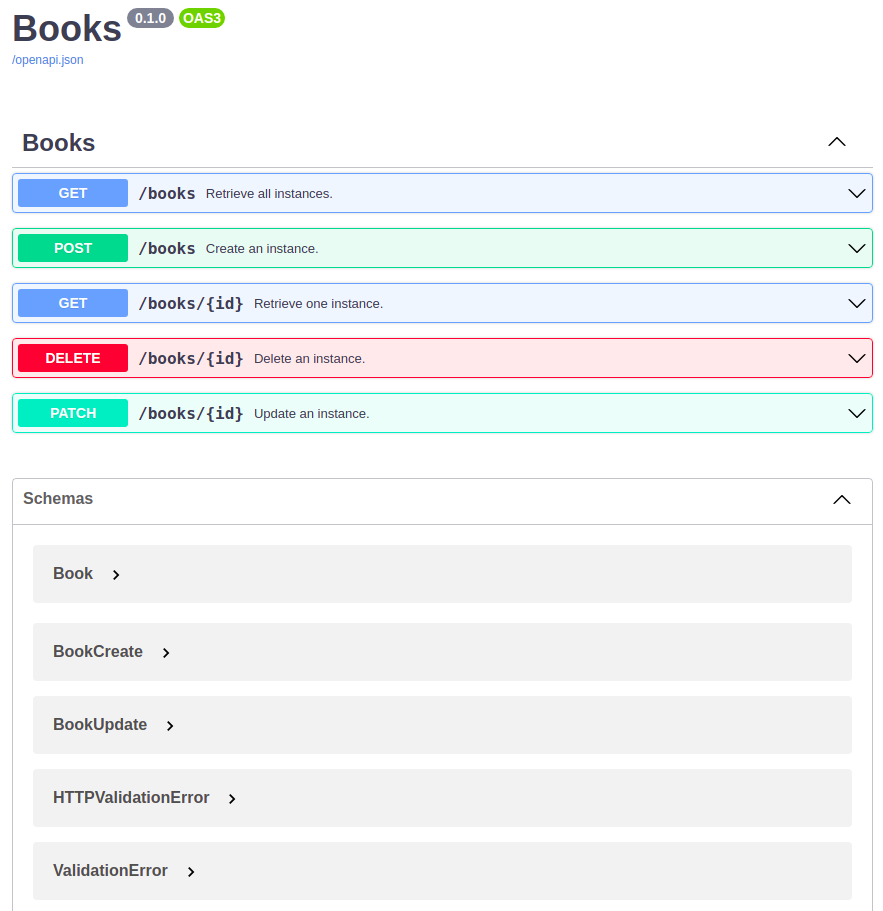
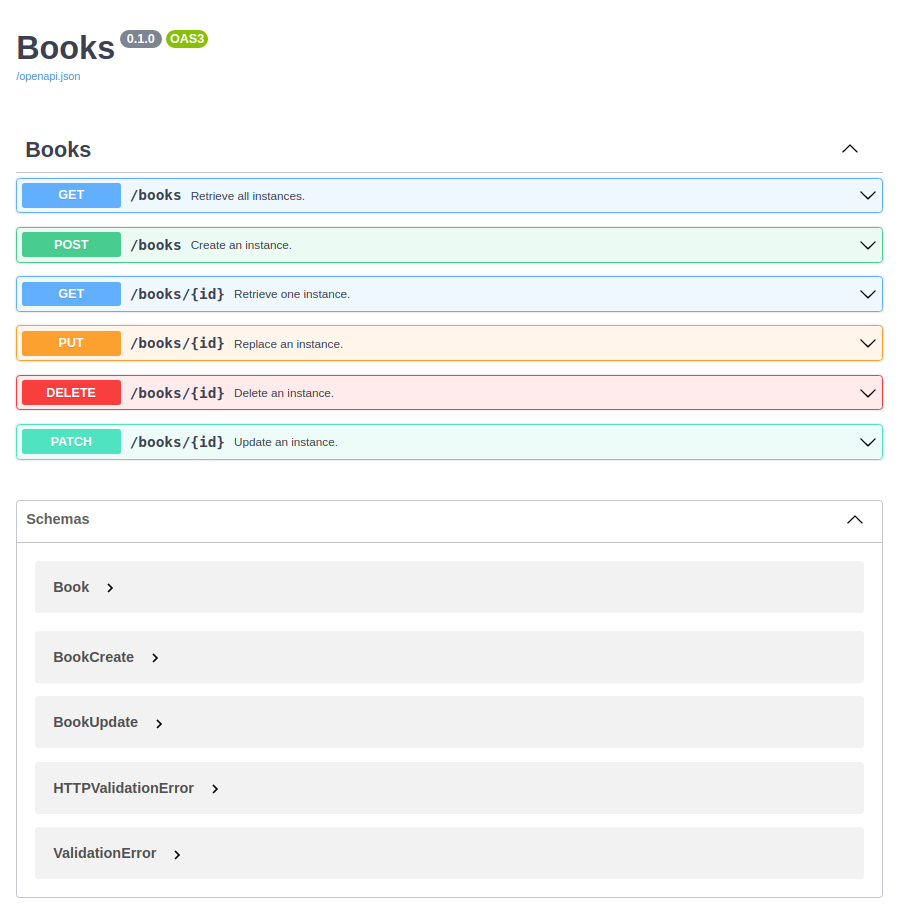
feat: put endpoint

diff --git a/crudapi/routers/update.py b/crudapi/routers/update.py
@@ -7,11 +7,14 @@ from crudapi.services.update import UpdateService
 
 
 class UpdateRouter(APIRouter):
-    def __init__(self, orm_model, update_model, response_model, *args, **kwargs):
+    def __init__(
+        self, orm_model, update_model, create_model, response_model, *args, **kwargs
+    ):
         super().__init__(*args, **kwargs)
         self.search_service = SearchService(orm_model)
         self.update_service = UpdateService(orm_model)
         self.map_patch(update_model, response_model)
+        self.map_put(create_model)
 
     def map_patch(self, update_model, response_model):
         """ """
@@ -21,6 +24,15 @@ class UpdateRouter(APIRouter):
             endpoint=self.patch(update_model),
             response_model=response_model,
             summary="Update an instance.",
+        )
+
+    def map_put(self, create_model):
+        """ """
+        self.add_api_route(
+            path="/{id}",
+            methods={"PUT"},
+            endpoint=self.put(create_model),
+            summary="Replace an instance.",
         )
 
     def patch(self, update_model):
@@ -33,3 +45,11 @@ class UpdateRouter(APIRouter):
             )
 
         return _patch
+
+    def put(self, create_model):
+        """Replace an instance."""
+
+        def _put(id: str, fields: create_model, db=Depends(db)):
+            return self.update_service.put(db, id, fields.dict())
+
+        return _put

diff --git a/tests/integration/test_update.py b/tests/integration/test_update.py
@@ -18,3 +18,27 @@ def test_patch_not_found_returns_404(client, uuid):
 
     response = client.patch(f"/books/{uuid}", json={"title": "fake"})
     assert response.status_code == 404
+
+
+def test_put(client):
+
+    # creates
+    model = {"description": "APIs for dummies", "title": "Magic APIs"}
+    created = client.post("/books", json=model).json()
+    id = created.get("id")
+    # puts
+    fields = {"title": "APIs for experts"}
+    patched = client.put(f"/books/{id}", json=fields).json()
+    assert patched == 1
+    # asserts
+    response = client.get(f"/books/{id}").json()
+    assert response.get("updated_at") > created.get("updated_at")
+    assert response.get("title") == fields.get("title")
+    assert response.get("description") is None
+    assert response.get("review") is None
+
+
+def test_put_not_found_returns_404(client, uuid):
+
+    response = client.put(f"/books/{uuid}", json={"title": "fake"})
+    assert response.status_code == 404

diff --git a/crudapi/services/update.py b/crudapi/services/update.py
@@ -1,3 +1,4 @@
+from crudapi.core.exceptions import NotFound
 from crudapi.core.logging import logger
 
 
@@ -13,3 +14,11 @@ class UpdateService:
         db.refresh(instance)
         logger.info(f"Updated {instance}")
         return instance
+
+    def put(self, db, id, fields, *args, **kwargs) -> int:
+        """ """
+        updated = db.query(self.model).filter_by(id=id).update(fields)
+        if updated == 0:
+            raise NotFound()
+        logger.info(f"Replaced <{id}> {fields}")
+        return updated

diff --git a/crudapi/api.py b/crudapi/api.py
@@ -42,6 +42,7 @@ class CrudAPI(FastAPI):
             orm_model=orm_model,
             response_model=response_model,
             update_model=update_model,
+            create_model=create_model,
         )
         self.include_router(search, **commons)
         self.include_router(delete, **commons)

diff --git a/README.md b/README.md
@@ -47,6 +47,7 @@ you'll get, out of the box, a working _crudapi_ with all these working REST endp
 - POST: /books
 - GET: /books/\<id>
 - PATCH: /books/\<id>
+- PUT: /books/\<id>
 - DELETE: /books/\<id>
 
 and because CrudAPI subclasses FastAPI you'll also get all the incredible features of this wonderful library, including automatic OpenAPI schema generation and a working [SwaggerUI](https://swagger.io/tools/swagger-ui/):
